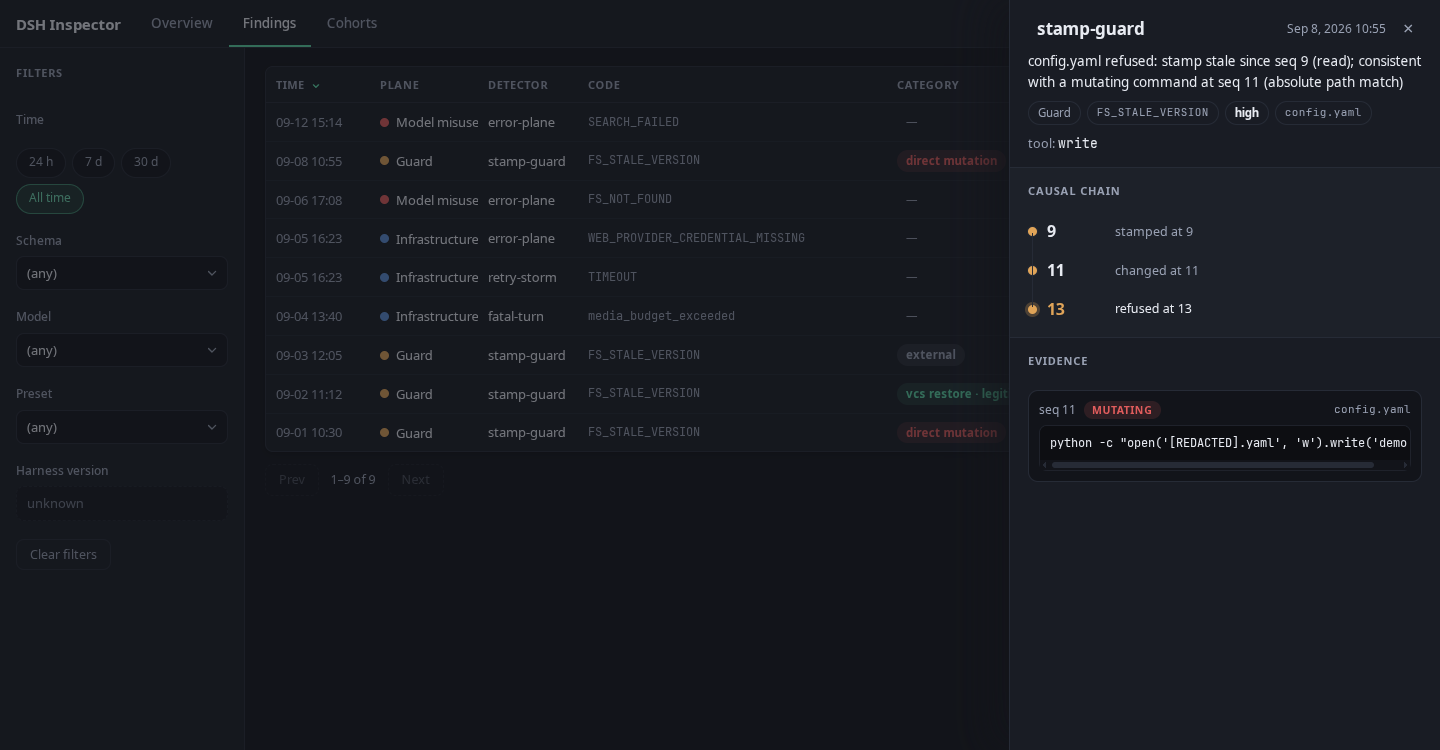
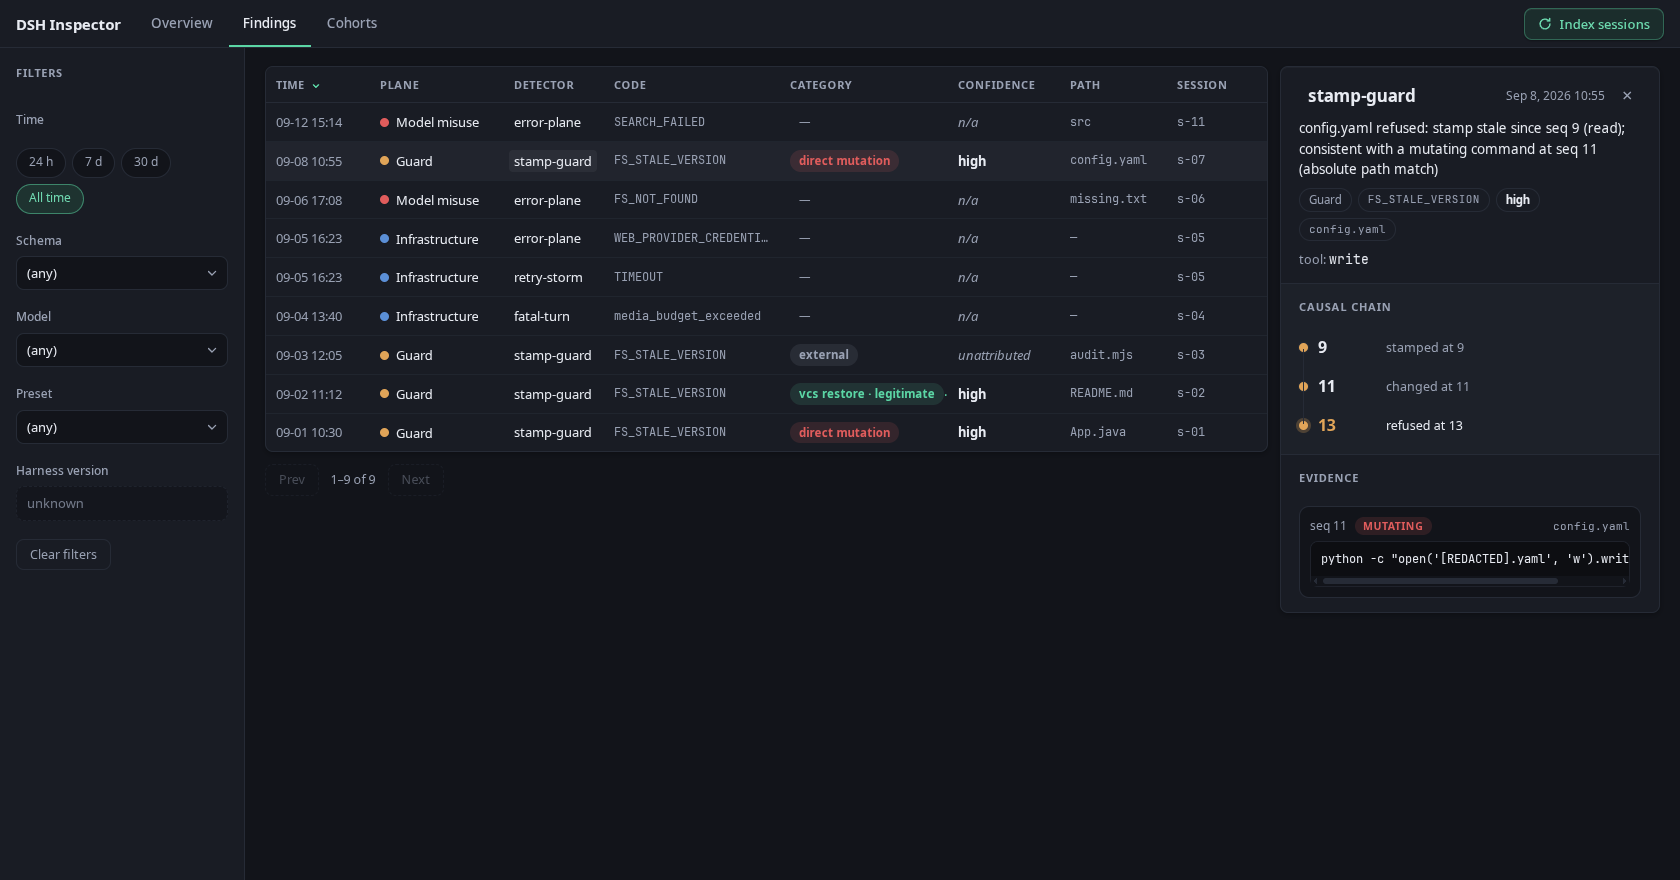
fix: the code breakdown states what it leaves out, and the screenshots show the app as it is
The panel lists a top slice, so on a real index its column does not add up to the tile
beside it: 358 of 389 findings, in 8 of 20 codes, with nothing saying so. A reader who
sums it concludes the tile is wrong. It now names the remainder.

Only the findings count, deliberately — the number of remaining codes would have to come
from the vocabulary, and that list is index-wide by design while these counts follow the
rail, so under an active filter it would answer a different question than the one asked.

Two regressions from the column rework in the same pass, both measured in the browser
rather than eyeballed: CATEGORY had been cut to 152px and clipped "vcs restore ·
legitimate" — the same silent clip the column budget exists to prevent — and the board's
fifth card left the throughput table alone on its row beside a hole. CATEGORY is back to
168, CODE gives up the 16px, and the throughput table spans the row.

The README screenshots predate all of this: they showed the detail panel as the modal it
no longer is and a board without the code breakdown. Retaken on the fixture corpus.
README test counts follow the suites, and a sentence that named AI-NOTES §0 twice in one
paragraph is one sentence now.

Backend 247, frontend 76, both green.

diff --git a/frontend/src/app/overview/overview.ts b/frontend/src/app/overview/overview.ts
@@ -136,6 +136,23 @@ export class Overview {
    * this kind of error happen" at all, though every row behind it was already browsable.
    */
   readonly codes = computed(() => this.store.overview()?.topCodes ?? []);
+
+  /**
+   * What the panel is not showing. It lists the top few codes, so on any real index the
+   * column does not add up to the findings tile beside it — 358 of 389 on the measured
+   * corpus, in 8 of 20 codes. A breakdown that silently omits its tail invites the reader to
+   * sum it and get a number that contradicts the tile, which is the same class of error as a
+   * wrong denominator. Only the findings count is stated: the number of remaining codes would
+   * have to come from the vocabulary, and that list is deliberately index-wide while these
+   * counts follow the filter, so under an active rail it would be a different question's
+   * answer.
+   */
+  readonly codeTail = computed<number>(() => {
+    const o = this.store.overview();
+    if (o === null) { return 0; }
+    const shown = o.topCodes.reduce((sum, c) => sum + c.count, 0);
+    return Math.max(0, o.tiles.findings - shown);
+  });
   readonly throughput = computed(() => this.store.overview()?.throughput ?? []);
 
   /**

diff --git a/frontend/src/app/overview/overview.spec.ts b/frontend/src/app/overview/overview.spec.ts
@@ -207,6 +207,20 @@ describe('Overview', () => {
     expect(stub.setPresetCalls).toEqual([]);
   });
 
+  /**
+   * The panel is a top slice, so on any real index its column does not add up to the findings
+   * tile beside it. Saying nothing invites the reader to sum it and conclude the tile is wrong.
+   */
+  it('states the findings its top slice leaves out, and says nothing when there are none', () => {
+    // 389 findings, 305 of them in the two codes shown
+    render();
+    expect(el.querySelector('.code-tail')?.textContent).toContain('84');
+
+    // a breakdown that is complete makes no claim about a tail
+    render({ topCodes: [{ code: 'FS_NOT_OBSERVED', count: 389 }] });
+    expect(el.querySelector('.code-tail')).toBeNull();
+  });
+
   it('names the likely cause and offers the fix when the range has no findings', () => {
     render({
       tiles: { sessions: 0, findings: 0, toolCalls: 0, steps: 0 },

diff --git a/frontend/src/app/findings/findings.html b/frontend/src/app/findings/findings.html
@@ -45,8 +45,11 @@
                the gap and the cell padding. -->
           <col style="width: 134px" />
           <col style="width: 100px" />
-          <col style="width: 190px" />
-          <col style="width: 152px" />
+          <col style="width: 176px" />
+          <!-- 168px, not the 152 a first pass gave it: "vcs restore · legitimate" is the
+               longest chip and 152 clipped it — the same silent clip this column budget
+               exists to prevent. -->
+          <col style="width: 168px" />
           <col style="width: 112px" />
           <col />
           <col style="width: 100px" />

diff --git a/frontend/src/app/overview/overview.scss b/frontend/src/app/overview/overview.scss
@@ -259,3 +259,14 @@
   white-space: nowrap;
   color: $text-lo;
 }
+
+// The panel lists a top slice; the line below says so, because a column that does not add
+// up to the tile beside it is worse than a column with a tail stated.
+.code-tail {
+  margin: 10px 0 0;
+  font-size: 12px;
+}
+
+// The board grew a fifth card, which left the last one alone on its row beside a hole.
+// The throughput table is the widest content here anyway, so it takes the whole row.
+.card-wide { grid-column: 1 / -1; }

diff --git a/frontend/src/app/overview/overview.html b/frontend/src/app/overview/overview.html
@@ -89,9 +89,12 @@
               </li>
             }
           </ol>
+          @if (codeTail() > 0) {
+            <p class="code-tail muted">+{{ codeTail() | number }} findings in other codes</p>
+          }
         </div>
 
-        <div class="card">
+        <div class="card card-wide">
           <h3 class="card-title">Throughput by convention</h3>
           <table class="tput">
             <thead>

diff --git a/frontend/src/app/findings/findings.scss b/frontend/src/app/findings/findings.scss
@@ -104,7 +104,7 @@ app-finding-detail,
   // should fit the laptop it is demoed on, and scroll only past that.
   // 892 px of fixed columns plus a readable minimum for PATH. Raised from 900 when CODE
   // stopped being the flexible column: the budget has to cover the code in full now.
-  min-width: 940px;
+  min-width: 960px;
   border-collapse: collapse;
   font-size: 13px;
 }

diff --git a/README.md b/README.md
@@ -10,9 +10,9 @@ It is self-referential by design: it was written inside DSH by a locally hosted 
 — no cloud coding assistant designed, planned or implemented any of it, no hosted API,
 nothing leaving the machine — so on the author's own corpus the tool measures the harness
 that built it. `docs/AI-NOTES.md` §0 states exactly where a hosted assistant *was* used, in
-a review pass and a documentation pass, and what each one changed. The committed fixtures
-are synthetic; `./run-live.sh` is where that loop closes. `docs/AI-NOTES.md` §0 names the
-stack, and §3 is the defect ledger from building it.
+a review pass and a documentation pass, and what each one changed; §3 is the defect ledger
+from building it. The committed fixtures are synthetic, so `./run-live.sh` is where that
+loop actually closes.
 
 ![The dashboard, on the committed fixture corpus](docs/overview.png)
 
@@ -110,8 +110,8 @@ corpus".
 ## Tests
 
 ```bash
-cd backend && mvn test                 # 243 tests, 1 skipped
-cd frontend && npm test -- --watch=false   # 72 tests; Vitest 4 + jsdom, run through the Angular builder
+cd backend && mvn test                 # 247 tests, 1 skipped
+cd frontend && npm test -- --watch=false   # 76 tests; Vitest 4 + jsdom, run through the Angular builder
 ```
 
 ## Ports
